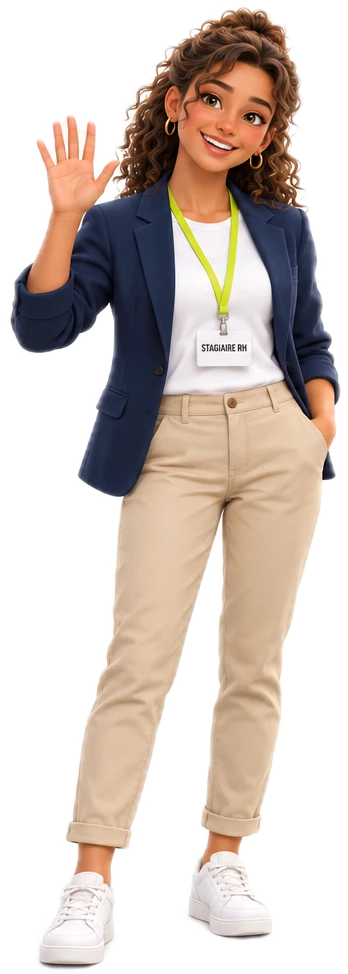
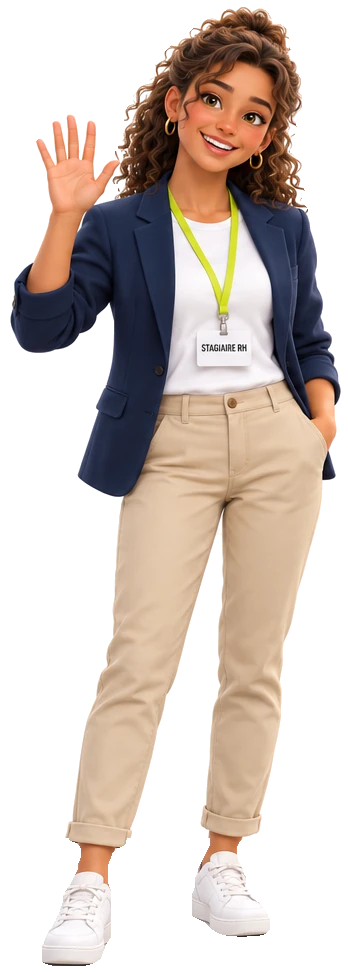
Démo Assistant RH : page d'accueil, Clara redétourée, carte centrée

diff --git a/assistant-rh/accueil.html b/assistant-rh/accueil.html
@@ -1,0 +1,48 @@
+<!doctype html>
+<html lang="fr">
+<head>
+<meta charset="utf-8">
+<meta name="viewport" content="width=device-width,initial-scale=1">
+<title>Assistant RH · Module 1</title>
+<link rel="stylesheet" href="commun.css">
+<style>
+#scene{background:#dfe6f3 url(img/bureau.jpg) center/cover}
+#scene::before{content:"";position:absolute;inset:0;background:linear-gradient(90deg,rgba(11,42,102,.96) 0,rgba(11,42,102,.88) 46%,rgba(11,42,102,.25) 78%,rgba(11,42,102,.05))}
+.texte{position:absolute;left:96px;top:92px;width:600px;color:#fff;z-index:2}
+.texte .eyebrow{color:#C9D4EF}
+.texte h1{margin:18px 0 0;font:800 50px/1.06 var(--f-display);letter-spacing:-.01em}
+.texte h1 .hl{color:var(--navy);background:linear-gradient(transparent 8%,var(--lime) 8%,var(--lime) 92%,transparent 92%);padding:0 8px;border-radius:4px}
+.texte p{margin:18px 0 0;font-size:19px;line-height:1.5;color:#E3E9F7;max-width:520px}
+.texte p b{color:#fff}
+.etapes{position:absolute;left:96px;bottom:44px;display:flex;gap:10px;z-index:2}
+.etapes div{width:118px;background:rgba(255,255,255,.08);border:1px solid rgba(255,255,255,.18);border-radius:14px;padding:10px 12px;color:#fff;font:600 13px/1.25 var(--f-body)}
+.etapes b{display:block;font:800 18px/1 var(--f-display);color:var(--lime);margin-bottom:5px}
+#clara{position:absolute;right:120px;bottom:-10px;height:600px;z-index:3;animation:entre .9s cubic-bezier(.25,.46,.45,.94) both}
+#clara img{height:100%;display:block}
+#clara .clos{position:absolute;inset:0;opacity:0}
+@keyframes entre{from{opacity:0;transform:translateX(60px)}to{opacity:1;transform:none}}
+.bulle{position:absolute;right:300px;top:96px;width:250px;background:#fff;border-radius:18px;padding:13px 17px;font-size:16px;line-height:1.38;color:var(--navy);box-shadow:0 12px 28px rgba(0,0,0,.25);z-index:4;animation:entre .6s .7s both}
+.bulle::after{content:"";position:absolute;right:-14px;top:26px;border:10px solid transparent;border-left:14px solid #fff;border-right:0}
+.marque{position:absolute;right:28px;top:24px;z-index:4;font:800 15px/1 var(--f-display);color:var(--navy);background:#fff;border-radius:999px;padding:9px 14px}
+.marque span{color:var(--blue)}
+</style>
+</head>
+<body>
+<div id="scene">
+  <div class="marque">M2 <span>Conseil</span></div>
+  <div class="texte">
+    <span class="eyebrow">Formation Assistant RH · Module 1</span>
+    <h1>Les bases du <span class="hl">droit social</span> français</h1>
+    <p>Clara et toi êtes en formation, <b>en immersion chez XYZ Entreprise</b>, une PME industrielle de 150 salariés. Première mission : préparer les élections du CSE. Et pour y arriver, on s'entraide.</p>
+  </div>
+  <!-- le bouton « Commencer » est un bouton Genially posé par-dessus, à gauche sous le texte -->
+  <div class="etapes">
+    <div><b>1</b>Rencontre Clara</div><div><b>2</b>Explore la carte</div><div><b>3</b>Range les demandes</div><div><b>4</b>Explique à Clara</div><div><b>5</b>Repars avec ta fiche</div>
+  </div>
+  <div id="clara"><img src="img/clara-salut.webp" alt="Clara, assistante RH en formation, fait un signe de la main"><img id="clos" class="clos" src="img/clara-salut-clos.webp" alt=""></div>
+  <div class="bulle">Salut ! Moi, c'est Clara. On commence quand tu veux.</div>
+</div>
+<script src="commun.js"></script>
+<script>clignement(()=>document.getElementById('clos'));</script>
+</body>
+</html>

diff --git a/assistant-rh/infographie.html b/assistant-rh/infographie.html
@@ -12,7 +12,8 @@
 .compteur{position:absolute;right:30px;top:30px;background:var(--navy);color:#fff;font:700 14px/1 var(--f-display);padding:10px 16px;border-radius:999px}
 .compteur b{color:var(--lime)}
 /* carte */
-#carte{position:absolute;left:0;top:0;width:820px;height:675px}
+#carte{position:absolute;left:0;top:0;width:820px;height:675px;transform:translateX(190px) scale(1.06);transform-origin:420px 360px;transition:transform .45s cubic-bezier(.25,.46,.45,.94)}
+body.ouvert #carte{transform:none}
 #carte svg{position:absolute;inset:0}
 .centre{position:absolute;left:300px;top:244px;width:200px;height:200px;border-radius:50%;background:var(--navy);color:#fff;display:grid;place-items:center;text-align:center;padding:18px;box-shadow:0 18px 40px rgba(11,42,102,.35);border:0}
 .centre strong{display:block;font:800 22px/1.1 var(--f-display)}
@@ -49,7 +50,7 @@
 .colonnes h3{margin:0 0 6px;font:800 14px/1.1 var(--f-display);color:var(--navy)}
 .colonnes ul{padding-left:16px!important;font-size:13.5px!important}
 /* Clara qui guide */
-#guide{position:absolute;left:24px;bottom:18px;display:flex;align-items:flex-end;gap:10px;max-width:520px}
+#guide{position:absolute;left:24px;bottom:18px;display:flex;align-items:flex-end;gap:10px;max-width:470px}
 #guide .tete{width:86px;height:86px;border-radius:50%;background:#fff url(img/clara-tete.webp) center 18%/130% auto no-repeat;border:4px solid var(--lime);flex:none}
 #guide .mot{background:#fff;border-radius:16px 16px 16px 4px;padding:12px 16px;font-size:15px;color:var(--navy);box-shadow:0 8px 20px rgba(11,42,102,.15)}
 </style>
@@ -141,7 +142,7 @@ function ouvre(k){
   const b = k==='centre'?CENTRE:BR.find(x=>x.k===k);
   const p=document.getElementById('panneau'); p.style.setProperty('--c',b.c);
   document.getElementById('contenu').innerHTML=`<h2>${b.titre}</h2>${b.html}`;
-  p.classList.add('ouvert');
+  p.classList.add('ouvert'); document.body.classList.add('ouvert');
   document.querySelectorAll('.noeud').forEach(n=>n.classList.toggle('actif',n.dataset.k===k));
   if(k!=='centre'){ vus.add(k); document.querySelector(`.noeud[data-k="${k}"]`).classList.add('vu'); }
   document.getElementById('nbVu').textContent=vus.size;
@@ -155,7 +156,7 @@ function pyramide(){
       document.getElementById('detailPyr').innerHTML=`<b>${e[0]}</b> : ${e[1]}`; }; z.appendChild(b); });
 }
 carte.addEventListener('click',e=>{ const n=e.target.closest('[data-k]'); if(n) ouvre(n.dataset.k); });
-document.getElementById('fermer').onclick=()=>{ document.getElementById('panneau').classList.remove('ouvert'); document.querySelectorAll('.noeud').forEach(n=>n.classList.remove('actif')); };
+document.getElementById('fermer').onclick=()=>{ document.getElementById('panneau').classList.remove('ouvert'); document.body.classList.remove('ouvert'); document.querySelectorAll('.noeud').forEach(n=>n.classList.remove('actif')); };
 </script>
 </body>
 </html>
